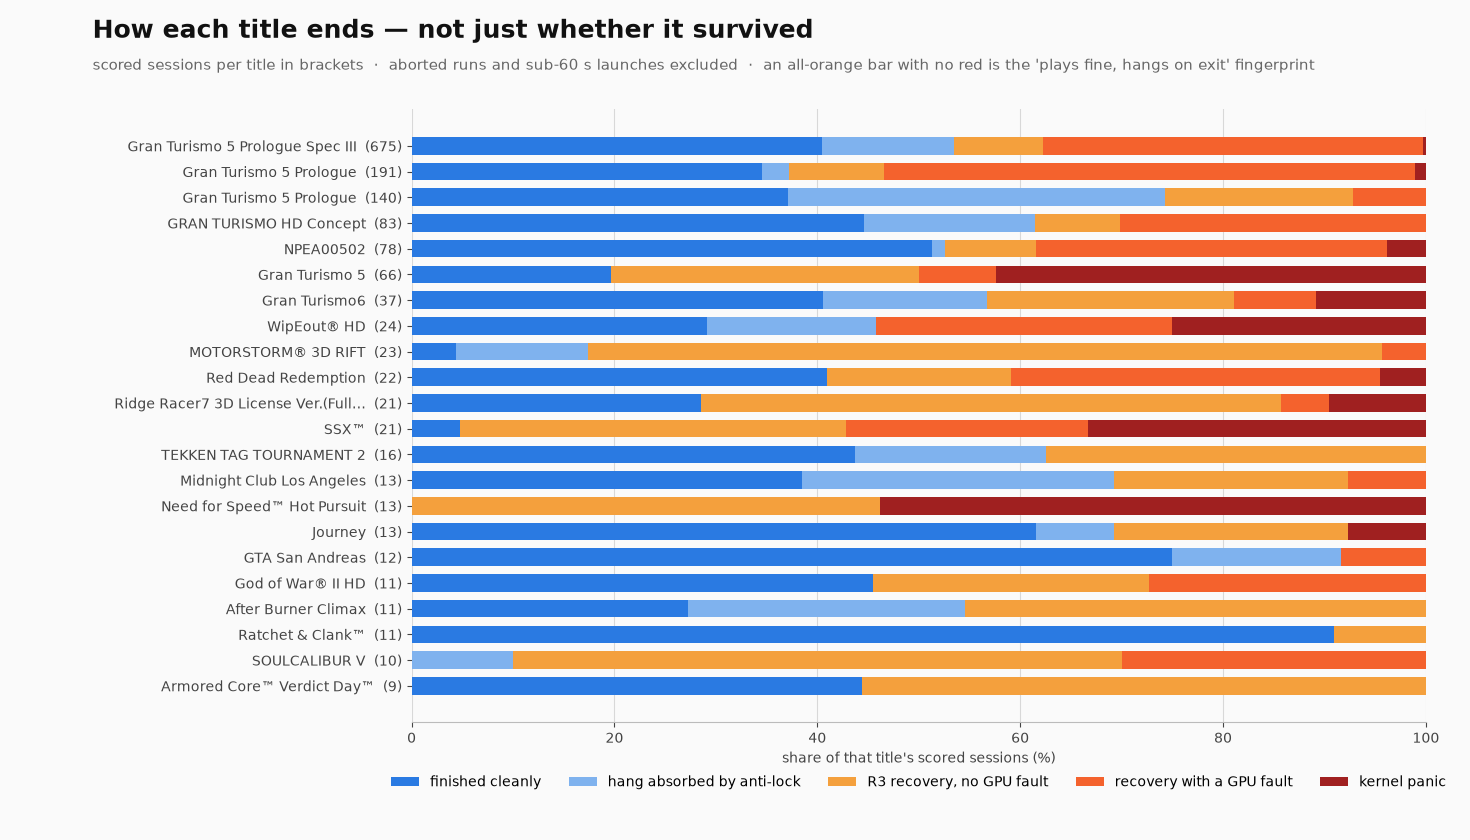
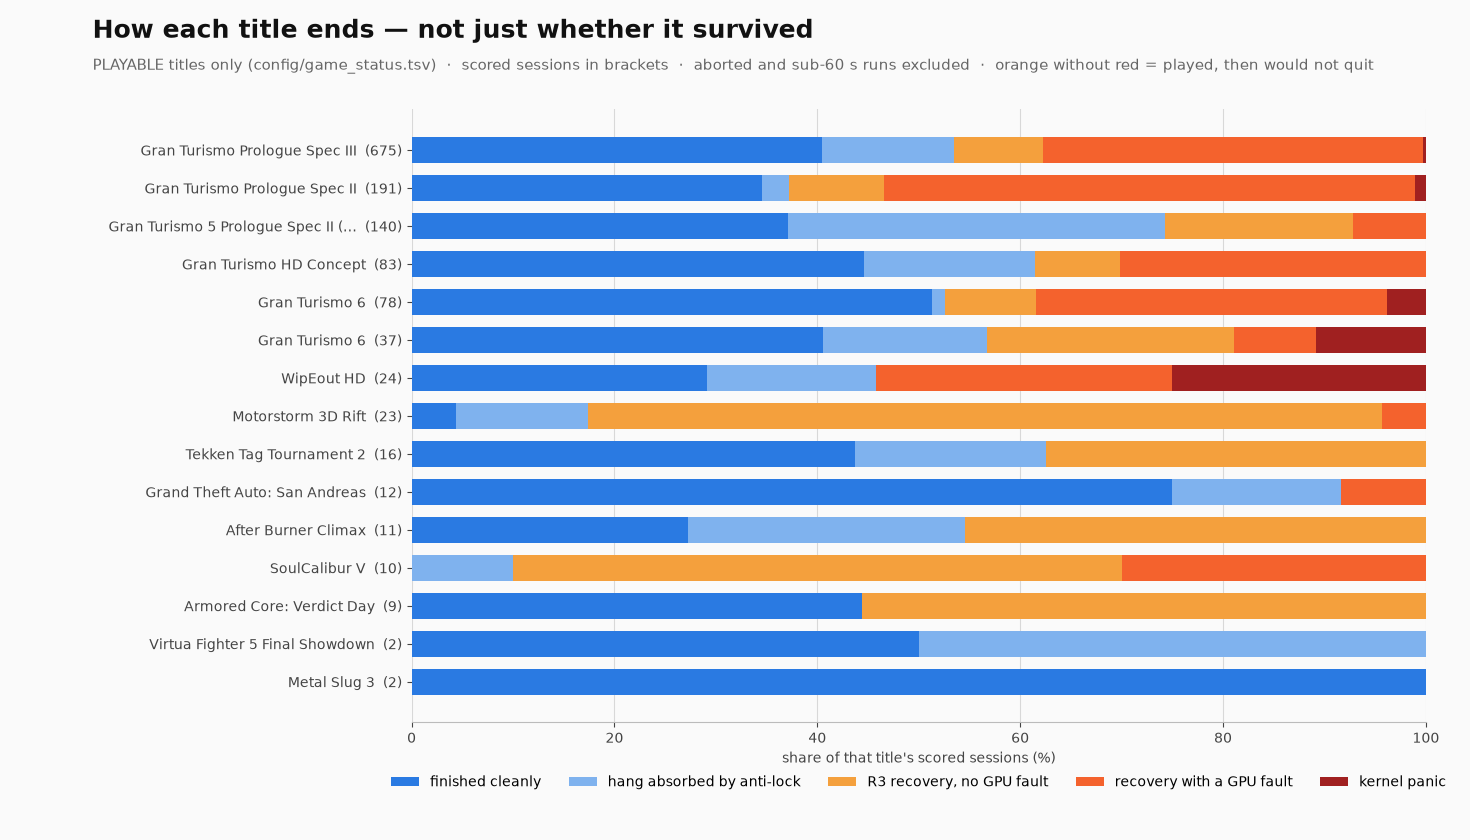
charts: filter to PLAYABLE titles — the ledger cannot see a menu
Operator correction: charting stability across all titles implies a library
you can play, and you cannot. Worse, the failure is not merely cosmetic — a
title that never leaves its MENUS can look STABLE, because a menu does not
stress the GPU. Telemetry records that a session ran seven minutes; it cannot
tell whether those were a race or a title screen. Only the operator, at the
rig, knows which, and that intel lives on the Tested-Games wiki.

config/game_status.tsv mirrors it (playable / in-game / menus / regression /
none, RPCS3's own vocabulary), keyed on serial. Charts default to `playable`;
--status widens, --status any disables. The filter REPORTS what it drops —
24 titles today — because a game vanishing from a stability chart should be a
stated decision, not an absence nobody notices.

It also corrects something I published an hour ago. The telemetry-only scan
for "plays fine, hangs on quit" returned seven candidates; under the status
filter only ONE survives (Armored Core: Verdict Day, 5/9). FALLOUT 3 (9/9) and
Need for Speed: Most Wanted (3/3) led that list and are `menus` and `none` —
their R3s are a human giving up on a title that never started, not one
refusing to close. The fingerprint was real; the population was wrong.

And on the title that prompted all this: SoulCalibur V does NOT have the clean
exit-hang signature. Six of ten rows are RECOVERY:Silent/R3_PANIC with no GPU
fault, but three carry GPU_FENCE_TIMEOUT and one was absorbed by the anti-lock
[…]

diff --git a/tools/chart_titles.py b/tools/chart_titles.py
@@ -25,6 +25,18 @@ This chart cannot prove which is which on its own — R3 is a human pressing a
 button, and the ledger does not record what they were trying to do at the
 time. It narrows the candidates to the ones worth asking about, and that is
 all it claims.
+
+PLAYABLE-ONLY BY DEFAULT (operator-directed 2026-08-10), and this is not
+cosmetic. The ledger cannot see whether a session was a race or a main menu,
+so an unplayable title charts exactly like a playable one — and a title that
+never leaves its menus can look STABLE, because a menu does not stress the
+GPU. Reading stability across all titles therefore implies a library you can
+play, which is false. `config/game_status.tsv` carries the operator's own
+playability call (mirrored from the wiki) and is the only source of that
+intel. It also cleans up the exit-hang scan: of seven candidates found by
+telemetry alone, FALLOUT 3 is `menus` and Need for Speed: Most Wanted is
+`none` — their R3s are a human giving up on a title that never started, not
+one refusing to close. Pass --status to widen, or --status any for everything.
 """
 import argparse
 import os
@@ -65,16 +77,36 @@ def main():
     ap = argparse.ArgumentParser()
     ap.add_argument("--ledger", default="state/etk_telemetry/sessions.tsv")
     ap.add_argument("--names", default="state/meta/title_names.tsv")
+    ap.add_argument("--status-file", default="config/game_status.tsv")
+    ap.add_argument("--status", default="playable",
+                    help="comma-separated statuses to chart, or 'any'")
     ap.add_argument("--out", default="docs/charts/titles.png")
     ap.add_argument("--top", type=int, default=22)
     a = ap.parse_args()
 
+    status, wiki_name = {}, {}
+    if os.path.exists(a.status_file):
+        for line in open(a.status_file):
+            if line.startswith("#") or not line.strip():
+                continue
+            p = line.rstrip("\n").split("\t")
+            if len(p) >= 2:
+                status[p[0].strip()] = p[1].strip()
+                if len(p) >= 3:
+                    wiki_name[p[0].strip()] = p[2].strip()
+    elif a.status != "any":
+        sys.exit(f"no {a.status_file} — playability is operator intel, not "
+                 "derivable from the ledger; pass --status any to override")
+    want = None if a.status == "any" else set(s.strip() for s in a.status.split(","))
+
+    # The wiki's naming is the operator's own and wins over a launcher filename.
     names = {}
     if os.path.exists(a.names):
         for line in open(a.names):
             p = line.rstrip("\n").split("\t")
             if len(p) >= 2:
                 names.setdefault(p[0].strip(), p[1].strip())
+    names.update(wiki_name)
 
     per = defaultdict(lambda: defaultdict(int))
     tot = defaultdict(int)
@@ -90,6 +122,21 @@ def main():
             continue
         per[p[3]][classify(p[4], p[9] or "")] += 1
         tot[p[3]] += 1
+
+    # Drop what the operator has not called playable. Report the drop rather
+    # than performing it silently — a title vanishing from a stability chart
+    # should be a stated decision, not an absence nobody notices.
+    if want is not None:
+        dropped = sorted(((s, tot[s]) for s in tot if status.get(s) not in want),
+                         key=lambda kv: -kv[1])
+        for s, _ in dropped:
+            del tot[s]
+        if dropped:
+            print(f"excluded {len(dropped)} title(s) not in status={a.status}:")
+            for s, n in dropped[:12]:
+                print(f"    {names.get(s, s):<42} {status.get(s, 'NO STATUS'):<11} N={n}")
+    if not tot:
+        sys.exit("nothing left to chart after the status filter")
 
     top = sorted(tot, key=lambda s: -tot[s])[:a.top]
     top.reverse()   # barh draws bottom-up
@@ -134,8 +181,8 @@ def main():
     fig.text(0.063, 0.955, "How each title ends — not just whether it survived",
              fontsize=18, fontweight="bold", color="#111")
     fig.text(0.063, 0.917,
-             "scored sessions per title in brackets  ·  aborted runs and sub-60 s launches excluded  ·  "
-             "an all-orange bar with no red is the 'plays fine, hangs on exit' fingerprint",
+             "PLAYABLE titles only (config/game_status.tsv)  ·  scored sessions in brackets  ·  "
+             "aborted and sub-60 s runs excluded  ·  orange without red = played, then would not quit",
              fontsize=11, color="#666")
 
     ax.legend(handles=[Patch(facecolor=c, label=l) for _, c, l in SEG],
